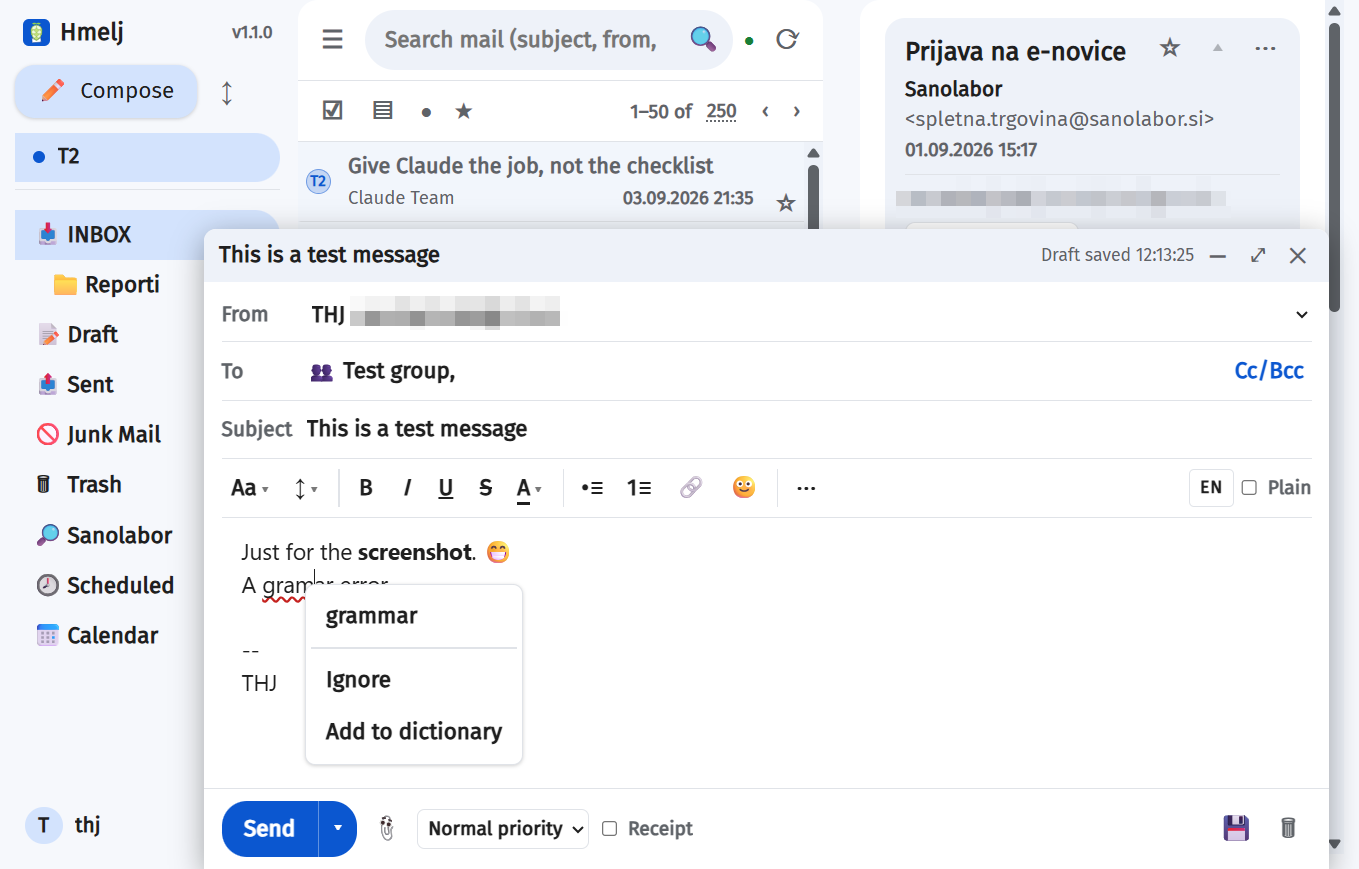
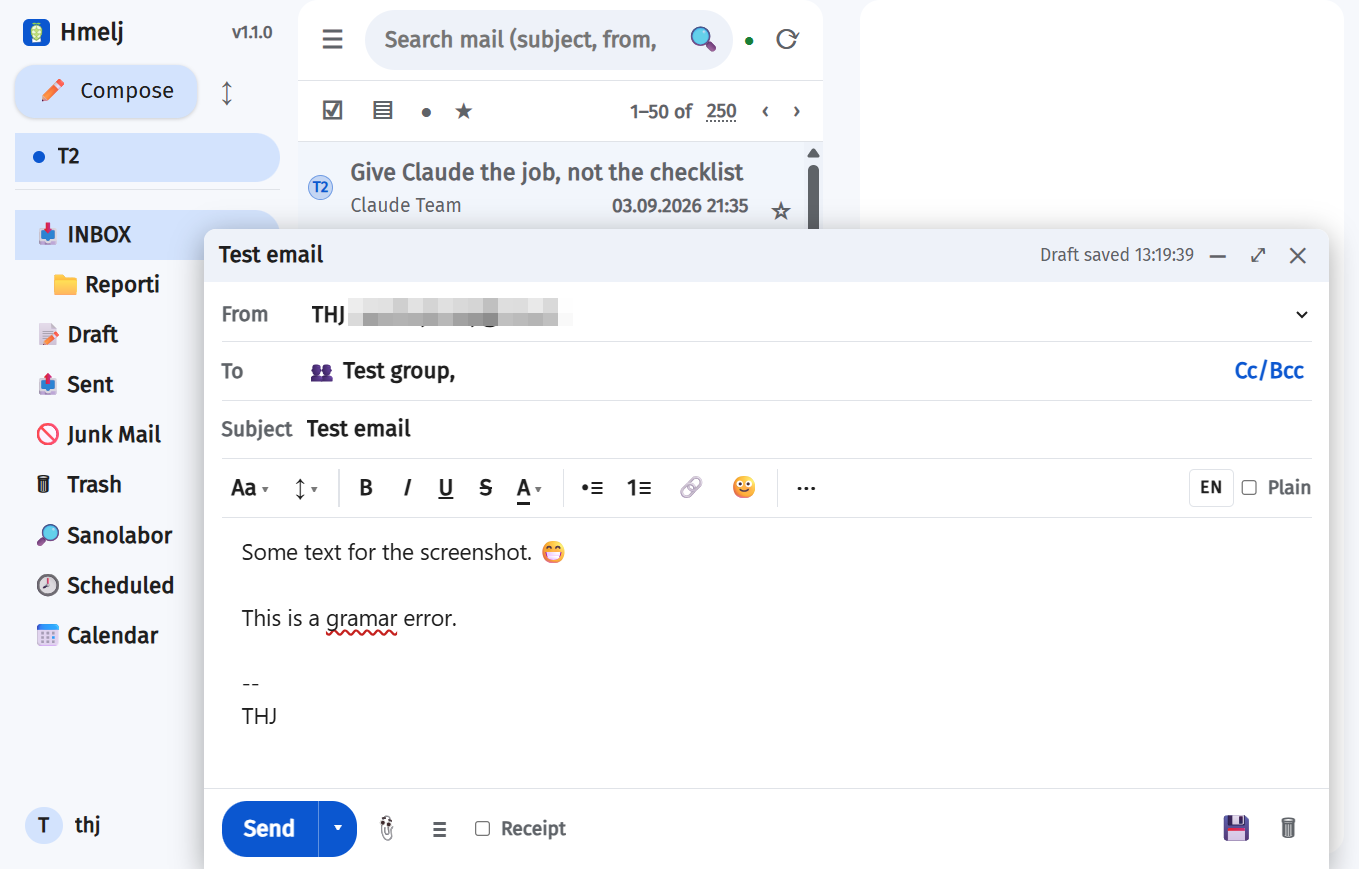
updated: screenshot and changelog.md

diff --git a/CHANGELOG.md b/CHANGELOG.md
@@ -4,7 +4,10 @@ All notable changes to Hmelj are recorded here. Versions follow
 [semantic versioning](https://semver.org/): the major number changes when an upgrade needs
 manual work, the minor when features are added, the patch for fixes.
 
-## 1.1.2 — 2026-09-06
+Work that has not been released yet collects under **Unreleased**. The version number is
+set when the release is tagged — entries are never given one in advance.
+
+## Unreleased
 
 ### Priority is a button now
 Three choices are worth *seeing*, and a dropdown can only show them as words. The footer
@@ -19,8 +22,6 @@ writing area stopped a few hundred pixels down and the **Send row sat stranded i
 middle of the screen** with blank space beneath it. The message now stretches to meet the
 footer, and the footer sits on the bottom edge where it belongs — and both can still give
 way when the on-screen keyboard opens.
-
-## 1.1.1 — 2026-09-06
 
 ### Dark mode: mail you could not read
 A message that writes `color:#000` on its own text kept doing so after the background
